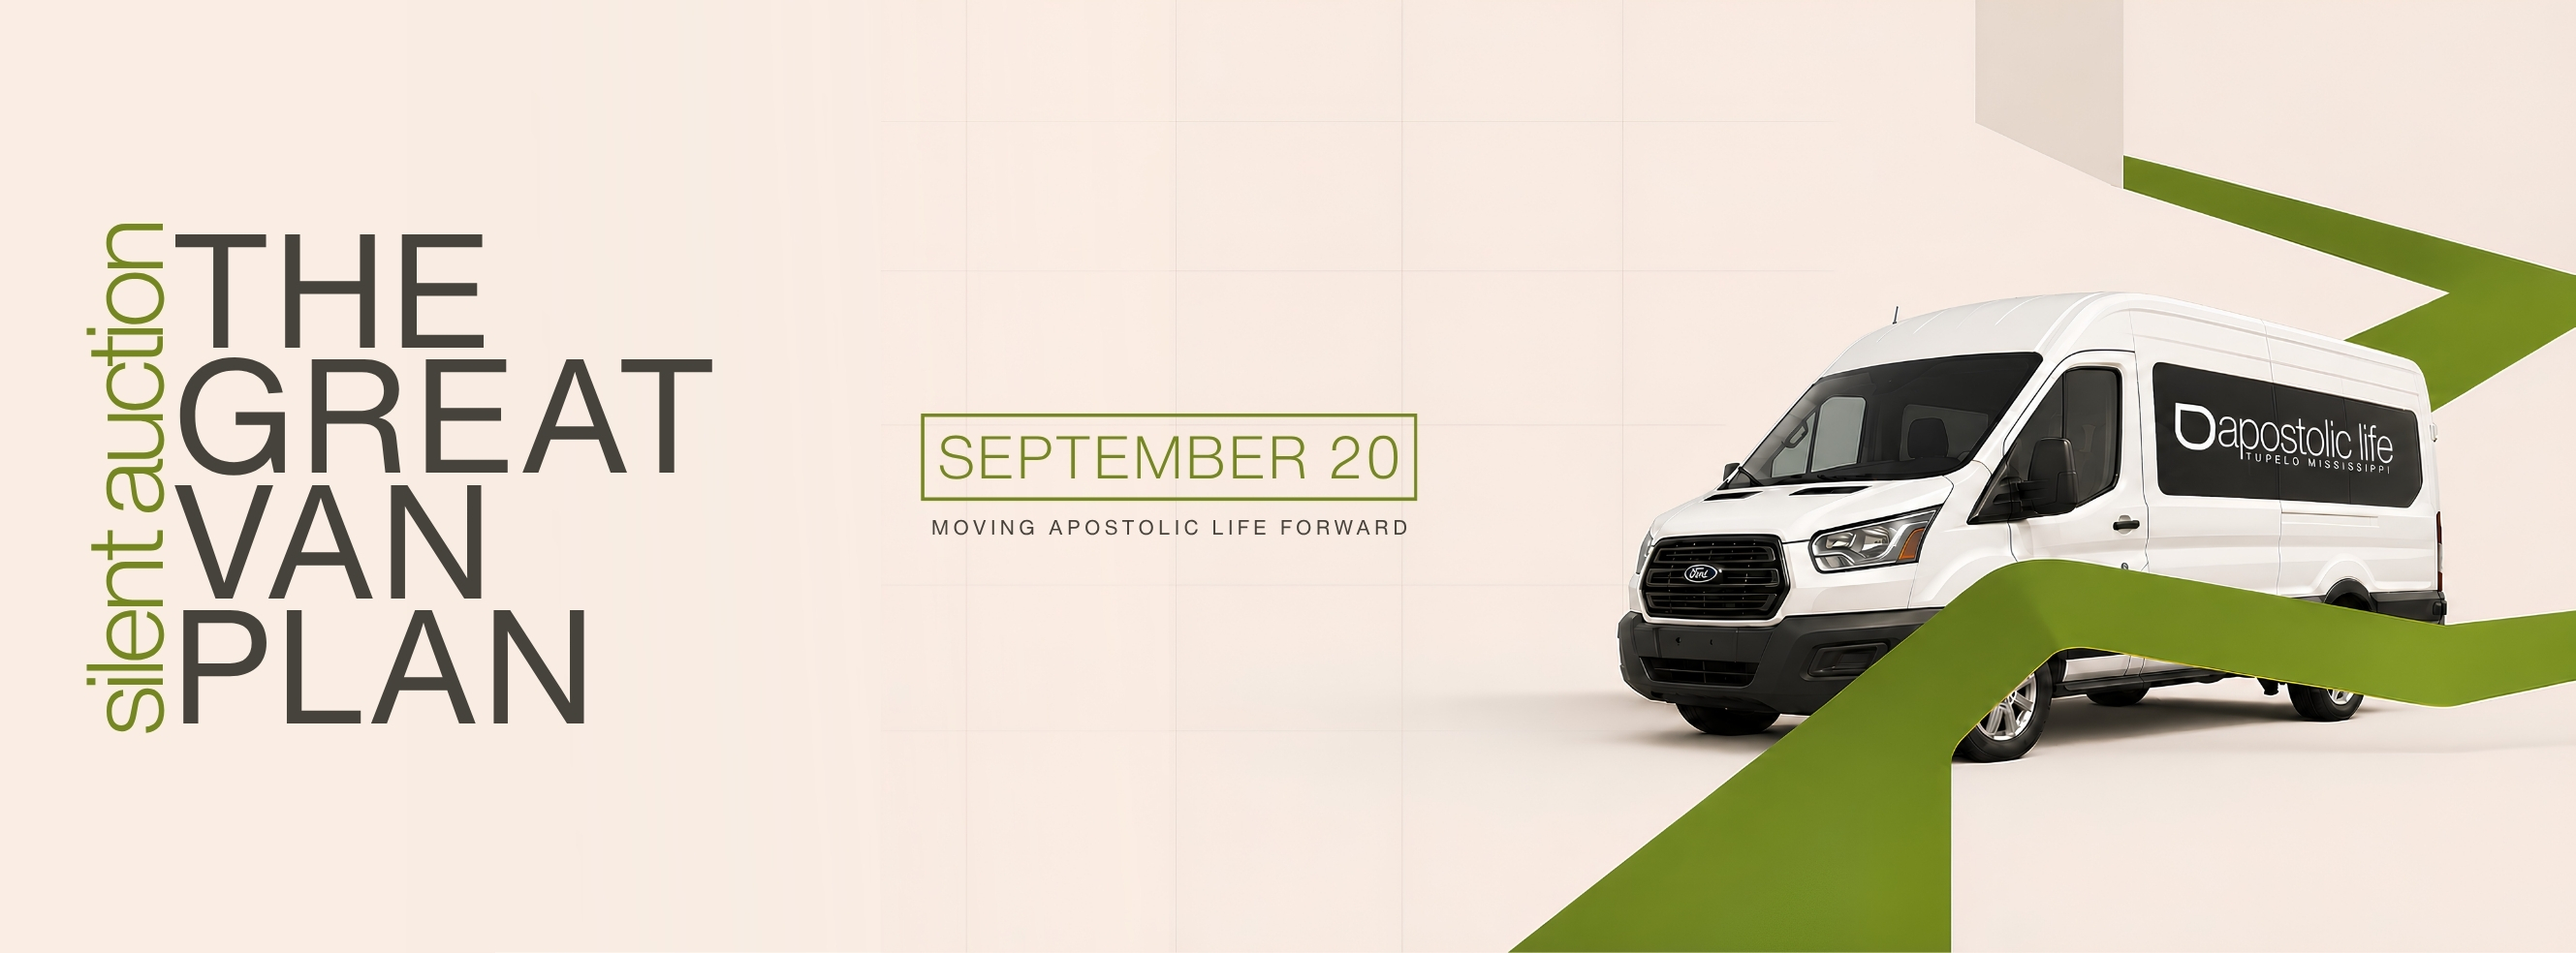
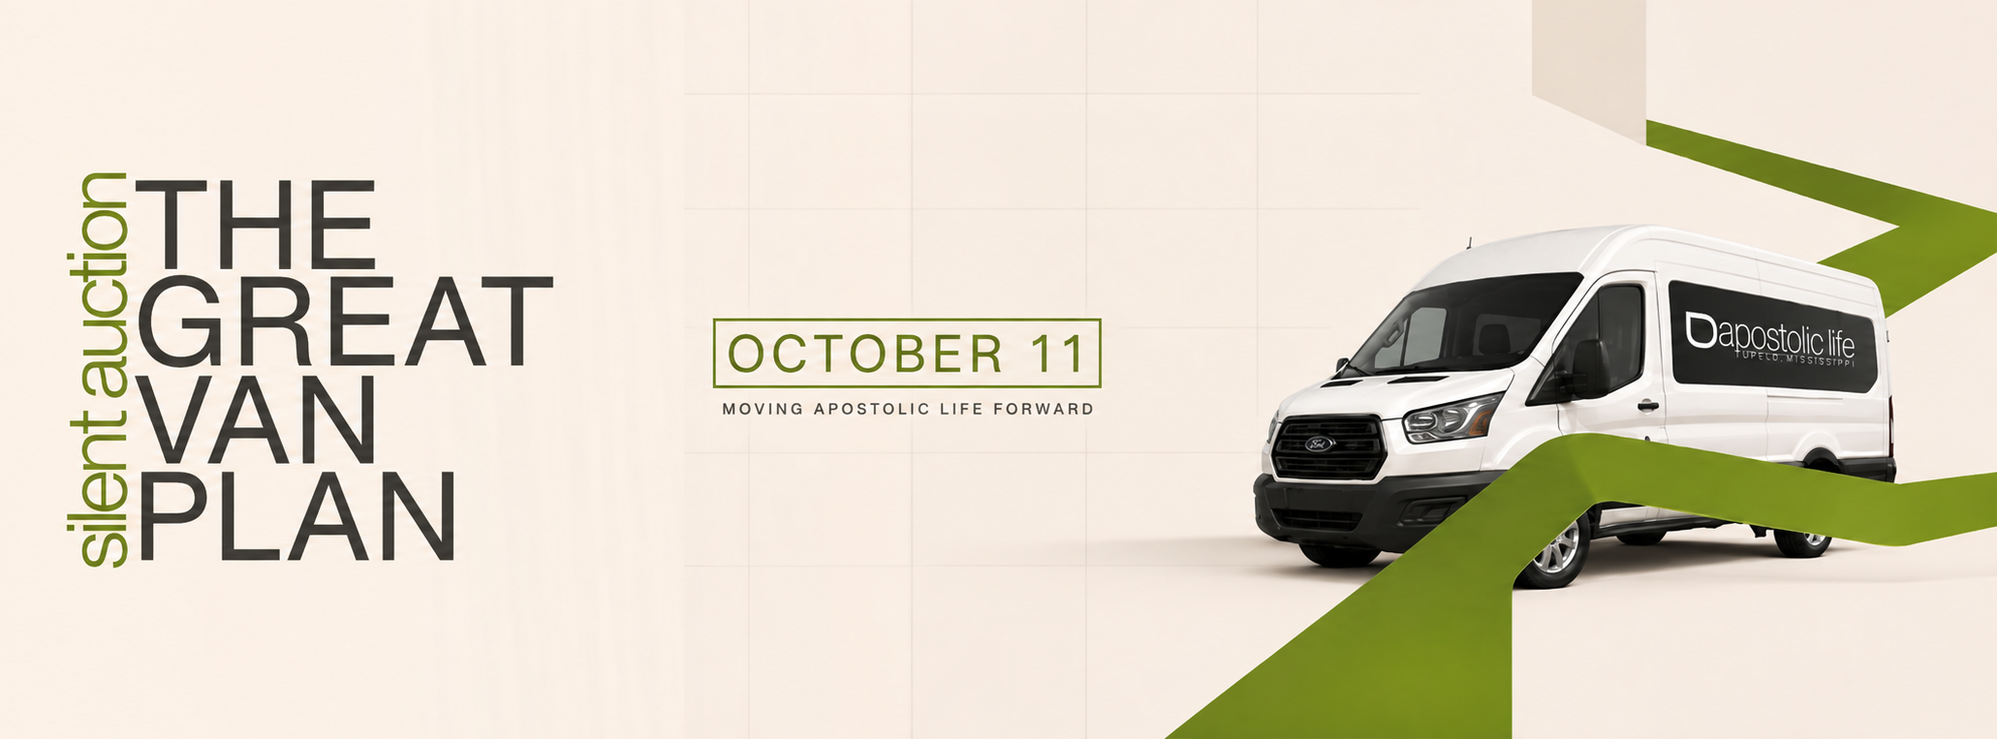
feat: keep the van plan auction live until oct 11
Update the close date and refresh the auction header banner.

diff --git a/lib/van-plan/constants.ts b/lib/van-plan/constants.ts
@@ -4,8 +4,8 @@ export const VAN_PLAN_PAYMENT_MEMO = "The Great Van Plan";
 export const VAN_PLAN_BASE_PATH = "/van-plan";
 /** Saturday, August 29, 2026, 9:00 a.m. America/Chicago (CDT). */
 export const VAN_PLAN_AUCTION_OPENS_AT = "2026-08-29T14:00:00.000Z";
-/** Sunday, September 20, 2026, 12:30 p.m. America/Chicago (CDT). */
-export const VAN_PLAN_AUCTION_CLOSES_AT = "2026-09-20T17:30:00.000Z";
+/** Sunday, October 11, 2026, 12:30 p.m. America/Chicago (CDT). */
+export const VAN_PLAN_AUCTION_CLOSES_AT = "2026-10-11T17:30:00.000Z";
 export const VAN_PLAN_AUCTION_TIME_ZONE = "America/Chicago";
 export const VAN_PLAN_AUCTION_STATUSES = ["scheduled", "open", "closed"] as const;
 export const VAN_PLAN_AUCTION_SETTINGS_SLUG = "__auction-status";

diff --git a/app/van-plan/components/header.tsx b/app/van-plan/components/header.tsx
@@ -9,8 +9,8 @@ export default function VanPlanHeader() {
         <Image
           src="/NewestVanPlanHeader.jpg"
           alt="The Great Van Plan Silent Auction"
-          width={2658}
-          height={984}
+          width={2061}
+          height={763}
           unoptimized
           preload
           className="h-auto w-full"
